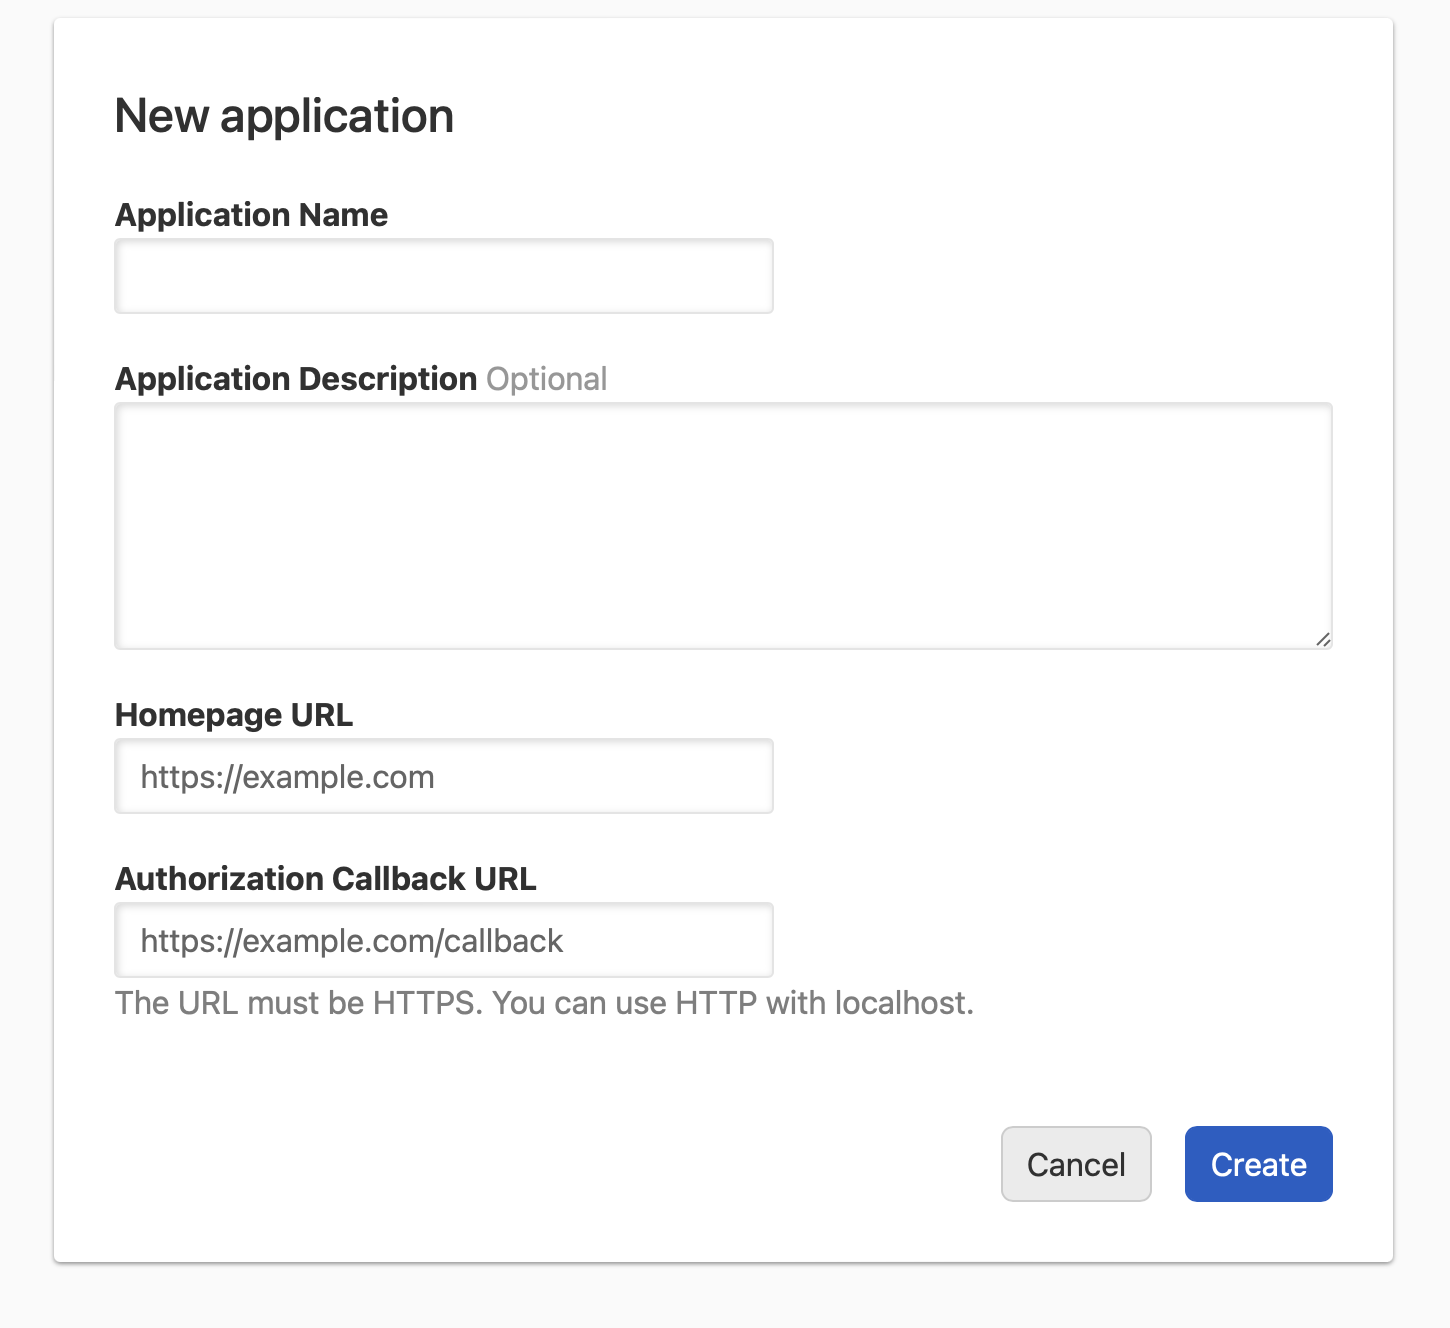
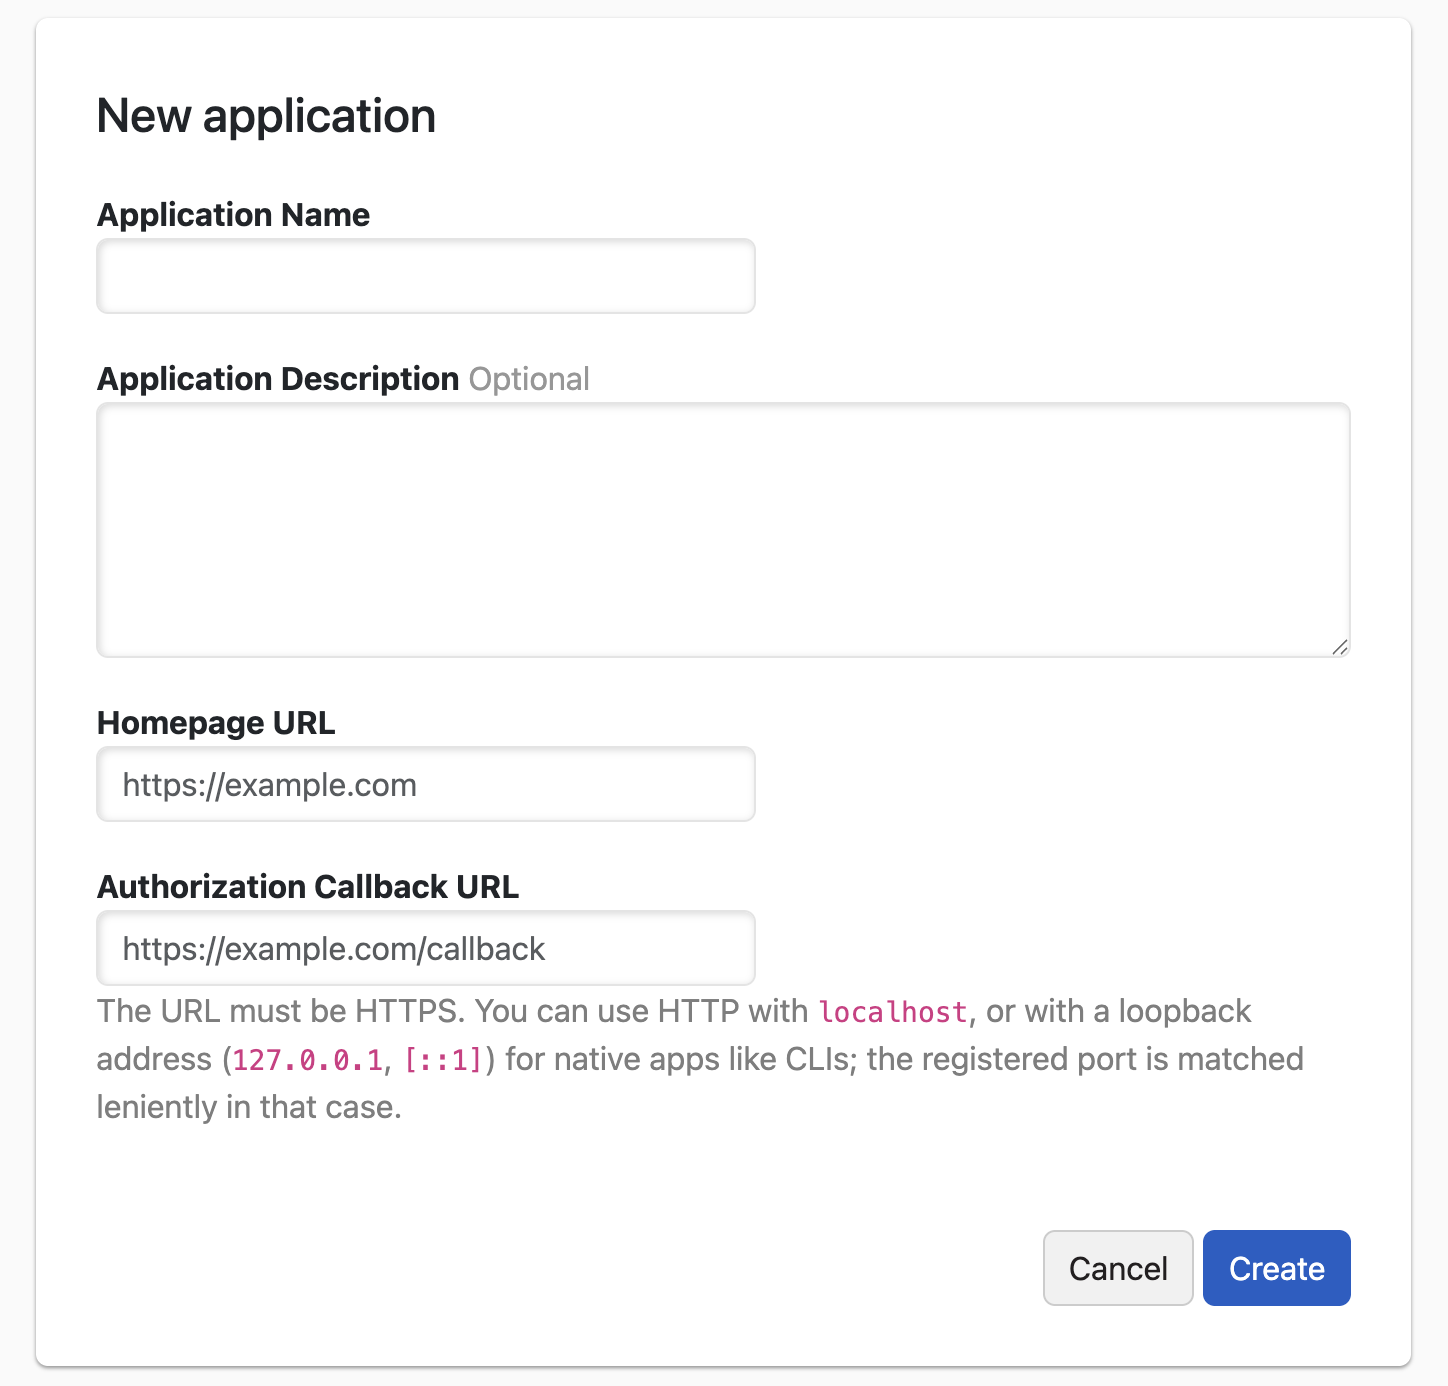
Update CLI and OAuth docs for browser-based OAuth login (#1984)
Updates the CLI and OAuth support articles to match the [new browser-based OAuth login](https://github.com/dnsimple/cli/issues/42) for the DNSimple CLI and the underlying OAuth flow changes (PKCE and public clients).

Related to https://github.com/dnsimple/dnsimple-developer/pull/1031

Pull request: Update CLI and OAuth docs for browser-based OAuth login
Updates the CLI and OAuth support articles to match the [new browser-based OAuth login](https://github.com/dnsimple/cli/issues/42) for the DNSimple CLI and the underlying OAuth flow changes (PKCE and public clients).

Related to https://github.com/dnsimple/dnsimple-developer/pull/1031

diff --git a/content/articles/oauth-applications.md b/content/articles/oauth-applications.md
@@ -1,7 +1,7 @@
 ---
 title: OAuth Applications
 excerpt: Explains how to create a new OAuth application for access to the API version 2.
-meta: Register and manage OAuth applications in DNSimple to authorize third-party access to the API without sharing account passwords.
+meta: Register and manage OAuth applications in DNSimple to authorize third-party API access without sharing account passwords. Choose a confidential web app or a public client that uses PKCE.
 categories:
 - API
 - Enterprise
@@ -16,42 +16,54 @@ categories:
 
 ---
 
-When creating an application that requires access to DNSimple or letting an external application request authorization to private details in a user's DNSimple account without getting their password, you'll need an OAuth token.
+When you build an application that needs access to DNSimple, or you let an external application request authorization to private details in a user's DNSimple account without getting their password, you need an OAuth token.
 
-If you only need basic access to the API, a regular [user or account token](/articles/api-access-token/) can be used instead.
+If you only need basic access to the API, a regular [user or account token](/articles/api-access-token/) works instead.
 
-## What is OAuth?
+## What is OAuth? {#what-is-oauth}
 
 OAuth 2 is a protocol that lets external applications request authorization to private details in a user's DNSimple account without getting their password. This is preferred over Basic Authentication, because tokens can be revoked by users at any time.
 
-Developers need to register their application before starting. A registered OAuth application is assigned a unique client ID and client secret. **The client secret should not be shared.**
+Register your application before you start. A registered OAuth application is assigned a unique client ID. How the application proves its identity afterward depends on its [client type](#client-types): a confidential application also receives a client secret, while a public application uses PKCE instead of a secret.
 
-## Creating a new OAuth application
+## Confidential and public applications {#client-types}
+
+When you register an application, you choose how it authenticates. This choice is permanent: you cannot change it after the application is created.
+
+- **Web app (server-side)** is a confidential application. It runs on a server you control and can keep a client secret private. It authenticates with its client secret. Most integrations are this type; if you are not sure, choose this.
+- **Native or browser app** is a public application, for command-line tools, desktop apps, mobile apps, and single-page apps. These run on a user's device or in their browser, where a secret cannot be kept private. A public application authenticates with PKCE (Proof Key for Code Exchange) instead of a client secret, so the dashboard does not display a client secret for it.
+
+> [!NOTE]
+> If you do not see a client type choice when you create an application, your account registers web (server-side) applications by default. These authenticate with a client secret.
+
+## Finding the OAuth Applications page {#find}
 
 1. Navigate to your account page.
 1. Click the **OAuth Applications** tab on the left side, then go to the **Developer applications** card.
 ![screenshot of adding an oauth application](/files/oauth-app-add.png)
 
-Your applications are listed here. You create a new application, edit existing applications, or remove them.
+Your applications are listed here. From this page you can create a new application, edit an existing one, or remove it.
 
-## Creating a new developer application
+## Creating a new application {#create}
 
-Click **Add** to add a new access token.
+Click **Add** to create a new application.
 
-When you create a new application, you'll need to provide a few details, including Application Name, a Homepage URL, and an Authorization Callback URL.
+Provide an Application Name, a Homepage URL, and an Authorization Callback URL. The callback URL must use HTTPS. For native apps such as command-line tools, you can use a loopback address (`http://127.0.0.1`, `http://[::1]`, or `http://localhost`); the port is matched leniently so the app can listen on whatever local port is free.
+
+If your account can register [public applications](#client-types), the form also asks what kind of application you are building. Choose **Web app (server-side)** for a confidential application or **Native or browser app** for a public one.
 
 > [!TIP]
 > Adding an application description is optional.
 
 ![screenshot of creating a new oauth application](/files/oauth-app-new.png)
 
-After the app has successfully been created, you'll be taken to the page with your new application, showing your Client ID and Client Secret.
+After the application is created, you are taken to its page. A confidential application shows a Client ID and a Client Secret. A public application shows only a Client ID, because it authenticates with PKCE and is not issued a client secret.
 ![screenshot of successful creation of new oauth application](/files/oauth-app-created.png)
 
 > [!NOTE]
-> Both the Client ID and Client Secret are unique to your application, and **the client secret should not be shared.**
+> For confidential applications, the Client ID and Client Secret are unique to your application, and **the client secret should not be shared.**
 
-## Revoking user tokens
+## Revoking user tokens {#revoke}
 
 You can revoke all user tokens for your application by clicking **Revoke**.
 ![screenshot of revoking tokens for an oauth application](/files/oauth-app-revoke-tokens.png)
@@ -59,19 +71,19 @@ You can revoke all user tokens for your application by clicking **Revoke**.
 > [!WARNING]
 > This cannot be undone. All clients will lose access to your application.
 
-## Deleting an application
+## Deleting an application {#delete}
 
 This action cannot be undone, and will permanently delete your application. Any clients using the application will no longer be able to access DNSimple.
 
 To delete an application, click **Delete**.
 ![screenshot of deleting an oauth application](/files/oauth-app-delete.png)
 
-When deleting an application, you'll receive a warning prompt to ensure you want to continue.
+When deleting an application, you receive a warning prompt to confirm you want to continue.
 ![screenshot of confirming delete of oauth application](/files/oauth-app-delete-confirm.png)
 
-## Interacting with the API through OAuth
+## Interacting with the API through OAuth {#api}
 
-For more details and step-by-step instructions on how to interact with DNSimple's API through OAuth, read [this developer guide](https://developer.dnsimple.com/v2/oauth/#web-application-flow).
+For step-by-step instructions on interacting with the DNSimple API through OAuth, see the [OAuth developer guide](https://developer.dnsimple.com/v2/oauth/).
 
 ## Have more questions?
 If you have additional questions or need any assistance with your OAuth Applications, just [contact support](https://dnsimple.com/feedback), and we'll be happy to help.

diff --git a/content/articles/dnsimple-cli.md b/content/articles/dnsimple-cli.md
@@ -1,7 +1,7 @@
 ---
 title: What Is the DNSimple CLI?
 excerpt: The DNSimple CLI is a command-line tool for managing domains, DNS records, and certificates from your terminal.
-meta: The DNSimple CLI is a command-line tool for managing domains, DNS records, and SSL certificates. Runs on macOS, Linux, and Windows using an API access token.
+meta: The DNSimple CLI is a command-line tool for managing domains, DNS records, and SSL certificates. Runs on macOS, Linux, and Windows.
 categories:
 - CLI
 ---
@@ -47,7 +47,11 @@ The CLI includes an `ai` command that outputs structured context about your acco
 
 ## How does the DNSimple CLI authenticate? {#authentication}
 
-The CLI authenticates with an [API access token](/articles/api-access-token/). You can provide your token through interactive account login, an environment variable, or a command-line flag. The full authentication details are available in the [CLI documentation on the developer site](https://developer.dnsimple.com/cli/).
+Run `dnsimple auth login` in a terminal and the CLI opens the DNSimple authorization page in your browser, then completes the login automatically once you approve. There is no token to copy or paste.
+
+To authenticate with an [API access token](/articles/api-access-token/) instead, run `dnsimple auth login --with-token` and paste the token when prompted. Automated environments use the same command: when input is piped or redirected, such as in a CI pipeline, the CLI reads the token from standard input.
+
+Each login is saved as a named context on disk, so you can keep separate logins for production, sandbox, and client accounts. For the full authentication reference, see the [CLI documentation on the developer site](https://developer.dnsimple.com/cli/).
 
 ## How do you install the DNSimple CLI? {#installation}
 